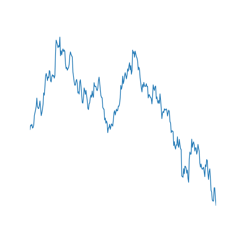
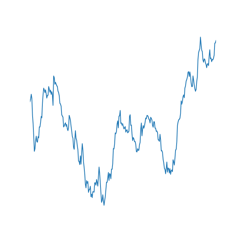
restructuring

Changed region(s): [[0.4375, 0.1458, 0.9042, 0.875], [0.1167, 0.1458, 0.4667, 0.875]]

diff --git a/main.py b/main.py
@@ -1,6 +1,7 @@
 import cbpro
 import matplotlib.pyplot as plt
 import pandas as pd
+import display  # personal module
 import plotly.graph_objects as go
 import mplfinance as mpf
 from datetime import datetime
@@ -16,29 +17,34 @@ print("Bitcoin Price:", public_client.get_product_ticker(product_id='BTC-USD').g
 # print(public_client.get_product_historic_rates('BTC-USD', granularity=21600))
 # ----------------------------------------------------------------------------------------
 """Make a line graph of time vs. high in 15 minute granularity"""
-historic_rates = public_client.get_product_historic_rates('BTC-USD', granularity=900)
-df = pd.DataFrame(historic_rates, columns=['date', 'low', 'high', 'open', 'close', 'volume'])
-df['date'] = pd.to_datetime(df['date'], unit='s')
-print(df)  # print all data
+btc_historic_rates = public_client.get_product_historic_rates('BTC-USD', granularity=900)
+btc_df = pd.DataFrame(btc_historic_rates, columns=['date', 'low', 'high', 'open', 'close', 'volume'])
+btc_df['date'] = pd.to_datetime(btc_df['date'], unit='s')
+print(btc_df)  # print all data
+
+eth_historic_rates = public_client.get_product_historic_rates('ETH-USD', granularity=900)
+eth_df = pd.DataFrame(eth_historic_rates, columns=['date', 'low', 'high', 'open', 'close', 'volume'])
+eth_df['date'] = pd.to_datetime(eth_df['date'], unit='s')
+print(eth_df)  # print all data
+
 # df.plot(x='date', y='high')
-ax = df.plot(x='date', y='high', legend=False)  # turn off legend
-# ax.set_facecolor('black')
-plt.axis('off')  # remove axes
-# plt.show()
-ax.figure.savefig('test.png', transparent=True)  # save graph with a transparent background
-im = Image.open(r"test.png")
-im = im.resize((240, 240))
-im.save("resized.png")
+# ax = df.plot(x='date', y='high', legend=False)  # turn off legend
+# # ax.set_facecolor('black')
+# plt.axis('off')  # remove axes
+# # plt.show()
+# ax.figure.savefig('test.png', transparent=True)  # save graph with a transparent background
+# im = Image.open(r"test.png")
+# im = im.resize((240, 240))
+# im.save("resized.png")
 # print(df['date'])
 # df.info()
 # mpf.plot(df, type='candle')
 # ----------------------------------------------------------------------------------------
 """create a new image"""
-img = Image.new('RGB', (320, 240), 0)  # make a new black canvas of 320x240 (screen size)
-img2 = Image.new('RGB', (80, 240), 'blue')  # placeholder box for info
-img.paste(img2, (0, 0))
-img.paste(im, (80, 0))
-img.show()
+btc_price = public_client.get_product_ticker(product_id='BTC-USD').get("price")
+display.GenerateImage("BTC-USD", btc_price, btc_df)
+eth_price = public_client.get_product_ticker(product_id='ETH-USD').get("price")
+display.GenerateImage("ETH-USD", eth_price, eth_df)
 # ----------------------------------------------------------------------------------------
 # historic_rates = public_client.get_product_historic_rates('BTC-USD', granularity=900)
 # dates = []

diff --git a/display.py b/display.py
@@ -1,0 +1,44 @@
+import digitalio
+import board
+from PIL import Image, ImageDraw
+import adafruit_rgb_display.ili9341 as ili9341
+import adafruit_rgb_display.st7789 as st7789
+import adafruit_rgb_display.hx8357 as hx8357
+import adafruit_rgb_display.st7735 as st7735
+import adafruit_rgb_display.ssd1351 as ssd1351
+import adafruit_rgb_display.ssd1331 as ssd1331
+from matplotlib import pyplot as plt
+
+""" This module will handle creating graphics and controlling the display """
+
+SCREEN_SIZE = (320, 240)  # change pixel size of screen here
+
+
+class GenerateImage:
+    def __init__(self, coin_name, coin_price, coin_df):
+        self.coin_name = coin_name
+        self.coin_price = coin_price
+        self.coin_df = coin_df
+        self.formatted_graph = self.format_graph()
+
+        self.make_image()
+
+    def format_graph(self):
+        ax = self.coin_df.plot(x='date', y='high', legend=False)  # turn off legend
+        # ax.set_facecolor('black')
+        plt.axis('off')  # remove axes
+        # plt.show()
+        ax.figure.savefig('temp_graph.png', transparent=True)  # save graph with a transparent background
+        graph = Image.open(r"temp_graph.png")
+        graph = graph.resize((240, 240))
+        graph.save("resized.png")
+        return graph
+
+    def make_image(self):
+        img = Image.new('RGB', SCREEN_SIZE, 0)  # make a new black canvas of 320x240 (screen size)
+        # img.show()
+        img2 = Image.new('RGB', (80, 240), 'blue')  # placeholder box for info
+        img.paste(img2, (0, 0))
+        img.paste(self.formatted_graph, (80, 0))
+        # img.show()
+        img.save(self.coin_name + "_screen" + ".png")
